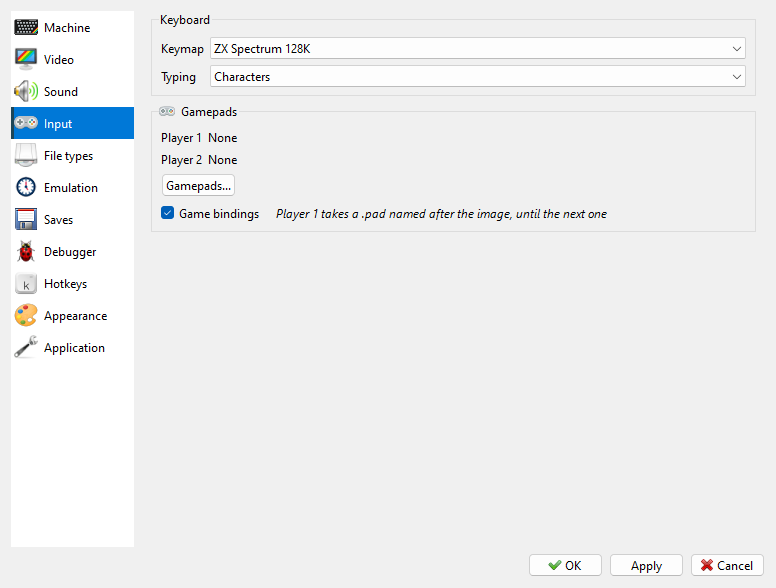
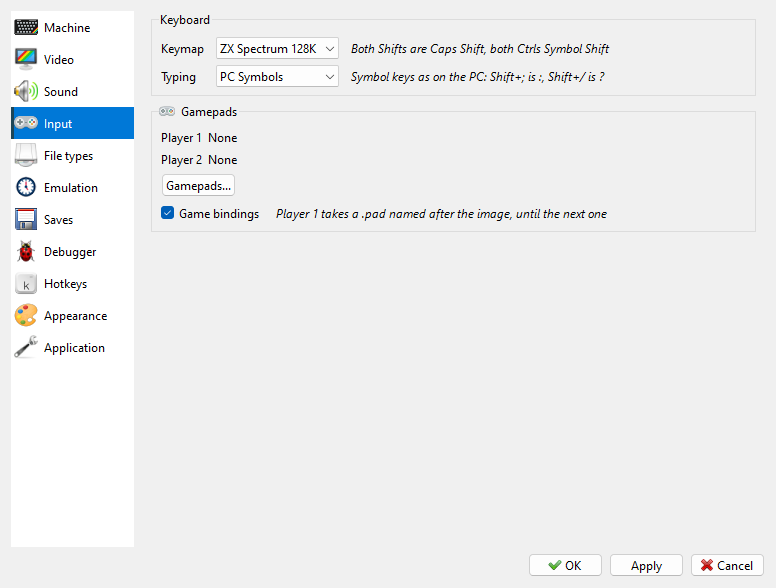
manual: PC Symbols by the Latin labels, digits the Spectrum's; keymaps without .map; the Input page's notes

Changed region(s): [[0.433, 0.0612, 0.9588, 0.1531], [0.2784, 0.0612, 0.4021, 0.0918], [0.2784, 0.1224, 0.3711, 0.1531]]

diff --git a/docs/manual/input.md b/docs/manual/input.md
@@ -19,18 +19,19 @@ shift keys of the Spectrum are the PC's:
 | Shift | Caps Shift |
 | Ctrl | Symbol Shift |
 
-A symbol key types the symbol printed on it, with Shift too: `;` gives `;`, Shift+`;` gives
-`:`, Shift+`2` gives `@`, Shift+`/` gives `?`. The machine gets the Spectrum's own way of
-typing it, Symbol Shift and a key. Letters and digits go by their place, so Shift+A is a
-capital A and games read the keys as they always have. A symbol the Spectrum has no key for
-(`[`, `\`, `` ` `` and the like) works as in the table below.
+The symbol keys `;` `'` `,` `.` `/` `-` `=` type what is printed on them, with Shift too:
+Shift+`;` gives `:`, Shift+`'` gives `"`, Shift+`/` gives `?`. The machine gets the
+Spectrum's own way of typing it, Symbol Shift and a key. Letters and digits are the
+Spectrum's, so Shift+A is a capital A, Shift+`0` is DELETE and Shift+`9` GRAPHICS, and games
+read the keys as they always have. Symbols on the digits are typed as on the Spectrum, with
+Ctrl: Ctrl+`2` gives `@`.
 
-```{index} typing, keyboard; typing characters
+```{index} typing, keyboard; typing PC symbols
 ```
 
-To have the keys as the Spectrum has them instead, with Shift as Caps Shift on every key,
-turn off **Input > Keymap > Type Characters**, or pick **Key Positions** in the **Typing**
-list on the **Input** page of **Options**.
+To have the symbol keys as fixed Spectrum keys instead, with Shift as Caps Shift, turn off
+**Input > Keymap > Type PC Symbols**, or pick **Key Positions** in the **Typing** list on the
+**Input** page of **Options**.
 
 Other PC keys press two Spectrum keys together:
 
@@ -71,9 +72,10 @@ grab the keyboard.
 ```{index} keyboard; system layout
 ```
 
-A letter is recognized by its place on the keyboard, not by what the system layout puts on
-it, so a Cyrillic or another layout changes nothing there. A symbol or a digit is the one the
-layout types: with a Russian layout, Shift+`6` gives `:`, with a French one Shift+`&` gives `1`.
+A key is recognized by its place on the keyboard, not by what the system layout puts on it,
+so a Cyrillic or another layout changes nothing, and switching layouts does not either. A
+symbol key types the symbol of the US layout, the Latin one printed on it: with a Russian
+keyboard, Shift+`Ж` gives `:`.
 
 The ZX Spectrum Next takes the keys as its own PS/2 keyboard does, Shift as Caps Shift (see
 [ZX Spectrum Next](zx-next.md)). The Profi with a grabbed keyboard has a layout of its own.
@@ -86,8 +88,9 @@ The ZX Spectrum Next takes the keys as its own PS/2 keyboard does, Shift as Caps
 A keymap says which PC key presses which Spectrum key. Pick one in **Input > Keymap**, or in
 the **Keymap** list on the **Input** page of **Options**:
 
-- **ZX Spectrum 128K** - the keys described above;
-- **ZX Spectrum 48K.map** - Caps Shift on both left Shift and left Ctrl, Symbol Shift on both
+- **ZX Spectrum 128K** - the keys described above: both Shift keys are Caps Shift and both
+  Ctrl keys Symbol Shift, as on a PC keyboard;
+- **ZX Spectrum 48K** - Caps Shift on both left Shift and left Ctrl, Symbol Shift on both
   right Shift and right Ctrl, as the two keys are placed on a 48K. The `\` key is GRAPHICS
   (Caps Shift + 9).
 
@@ -103,9 +106,9 @@ the right one. The 48K keymap then has no Symbol Shift: use ZX Spectrum 128K the
 
 A keymap is a text file with the extension `.map`, put in the `keymaps` folder of the settings
 folder (see [Where the settings are](getting-started.md#where-the-settings-are)). It shows in
-the **Keymap** menu the next time the menu is opened. A file with the name of a built-in
-keymap is used instead of that one. A file named `ZX Spectrum 128K.map` is not used: that
-keymap is built in.
+the **Keymap** menu by its name without `.map` the next time the menu is opened. A file with
+the name of a built-in keymap is used instead of that one. A file named
+`ZX Spectrum 128K.map` is not used: that keymap is built in.
 
 Each line is one PC key, then the Spectrum keys it presses, all separated by tabs:
 
@@ -117,7 +120,7 @@ RS	S
 
 The first line makes the `` ` `` key press Caps Shift and 1 together, which is EDIT. A line with a
 PC key alone makes that key press nothing. A key your keymap changes presses what the keymap
-says, with **Type Characters** on too.
+says, with **Type PC Symbols** on too.
 
 PC keys are named `1` to `0`, `A` to `Z`, `ENT`, `SPC`, `LS` and `RS` (left and right Shift),
 `LC` and `RC` (Ctrl), `LA` and `RA` (Alt), `TAB`, `CAPS`, `BSP`, `ESC`, `F1` to `F11`, `UP`,

diff --git a/docs/manual/options-input.md b/docs/manual/options-input.md
@@ -5,8 +5,8 @@
 
 ![The Input page](images/options-input.png)
 
-The keymap and **Typing**: **Characters** has a symbol key type the symbol printed on it,
-Shift+`;` giving `:`; **Key Positions** keeps Shift as Caps Shift on every key. Then the
-gamepads of **Player 1** and **Player 2**, with the **Gamepads...** button that opens their
+The keymap, with what it does beside it, and **Typing**: **PC Symbols** has the symbol keys
+type what is printed on them, Shift+`;` giving `:`; **Key Positions** keeps Shift as Caps
+Shift with every key. Then the gamepads of **Player 1** and **Player 2**, with the **Gamepads...** button that opens their
 window; and **Game bindings**.
 See [Input menu](input.md).

diff --git a/docs/manual/zx-next.md b/docs/manual/zx-next.md
@@ -211,7 +211,7 @@ Next.
 | `;` `'` `,` `.` | the Next's `;` `"` `,` `.` keys |
 | `/` `-` `=` | SYMBOL SHIFT with V, J and L |
 
-**Type Characters** of other machines does not apply here: Shift is CAPS SHIFT with every
+**Type PC Symbols** of other machines does not apply here: Shift is CAPS SHIFT with every
 key, as on the Next's own PS/2 keyboard.
 
 Some hotkeys of Xpeccy+ use Alt too: change them on the **Hotkeys** page of **Options**
